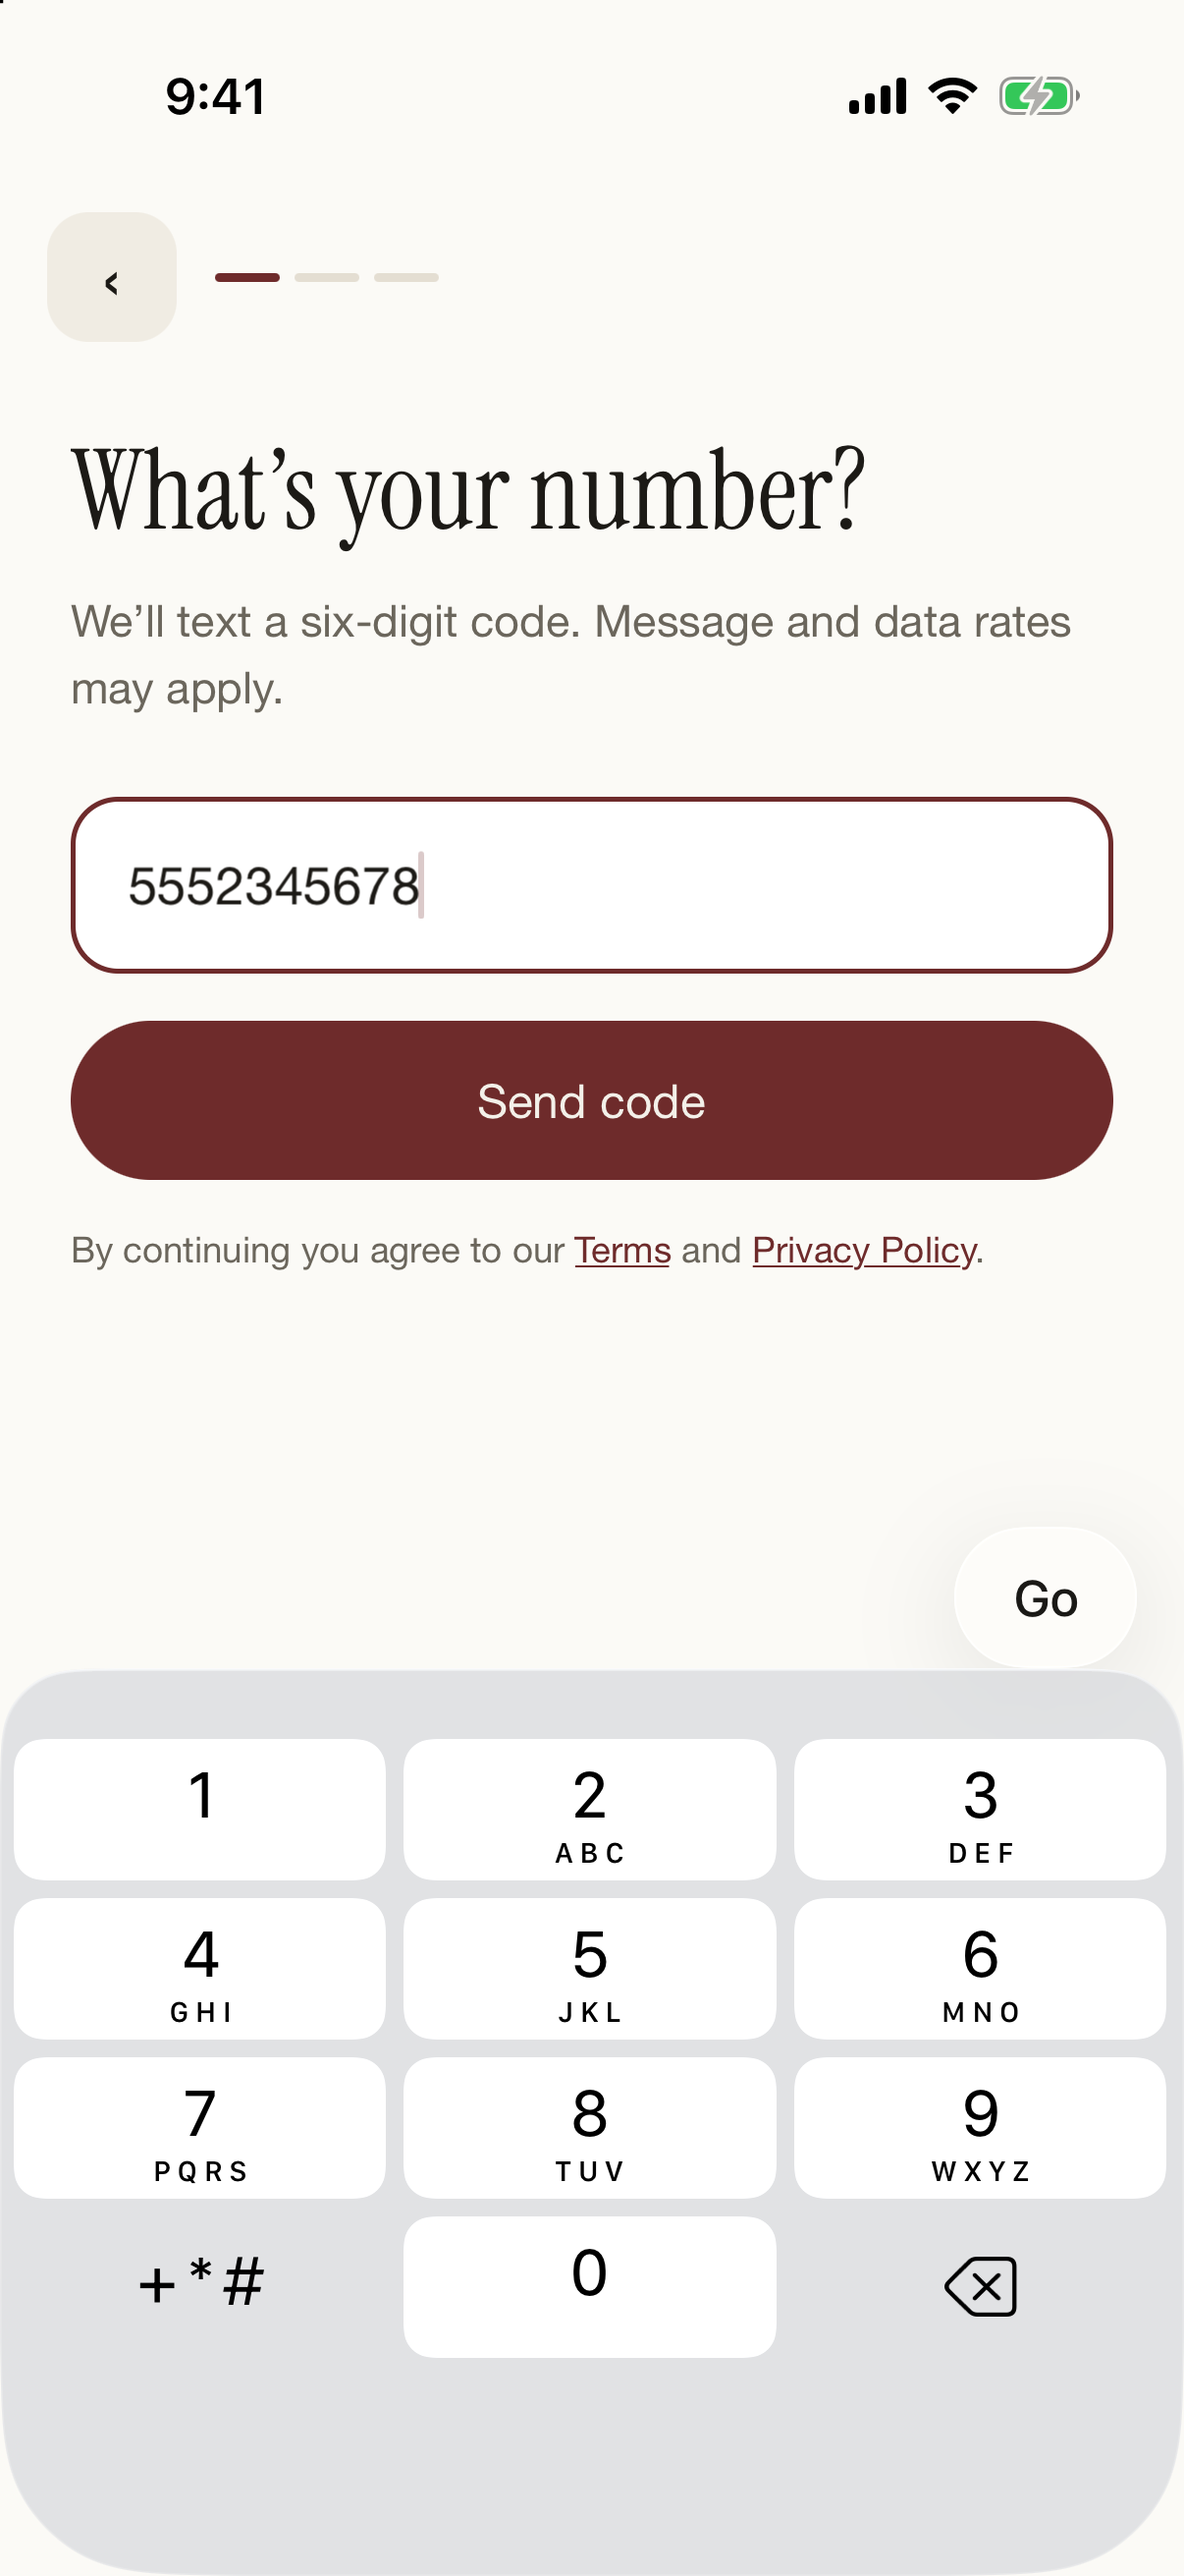
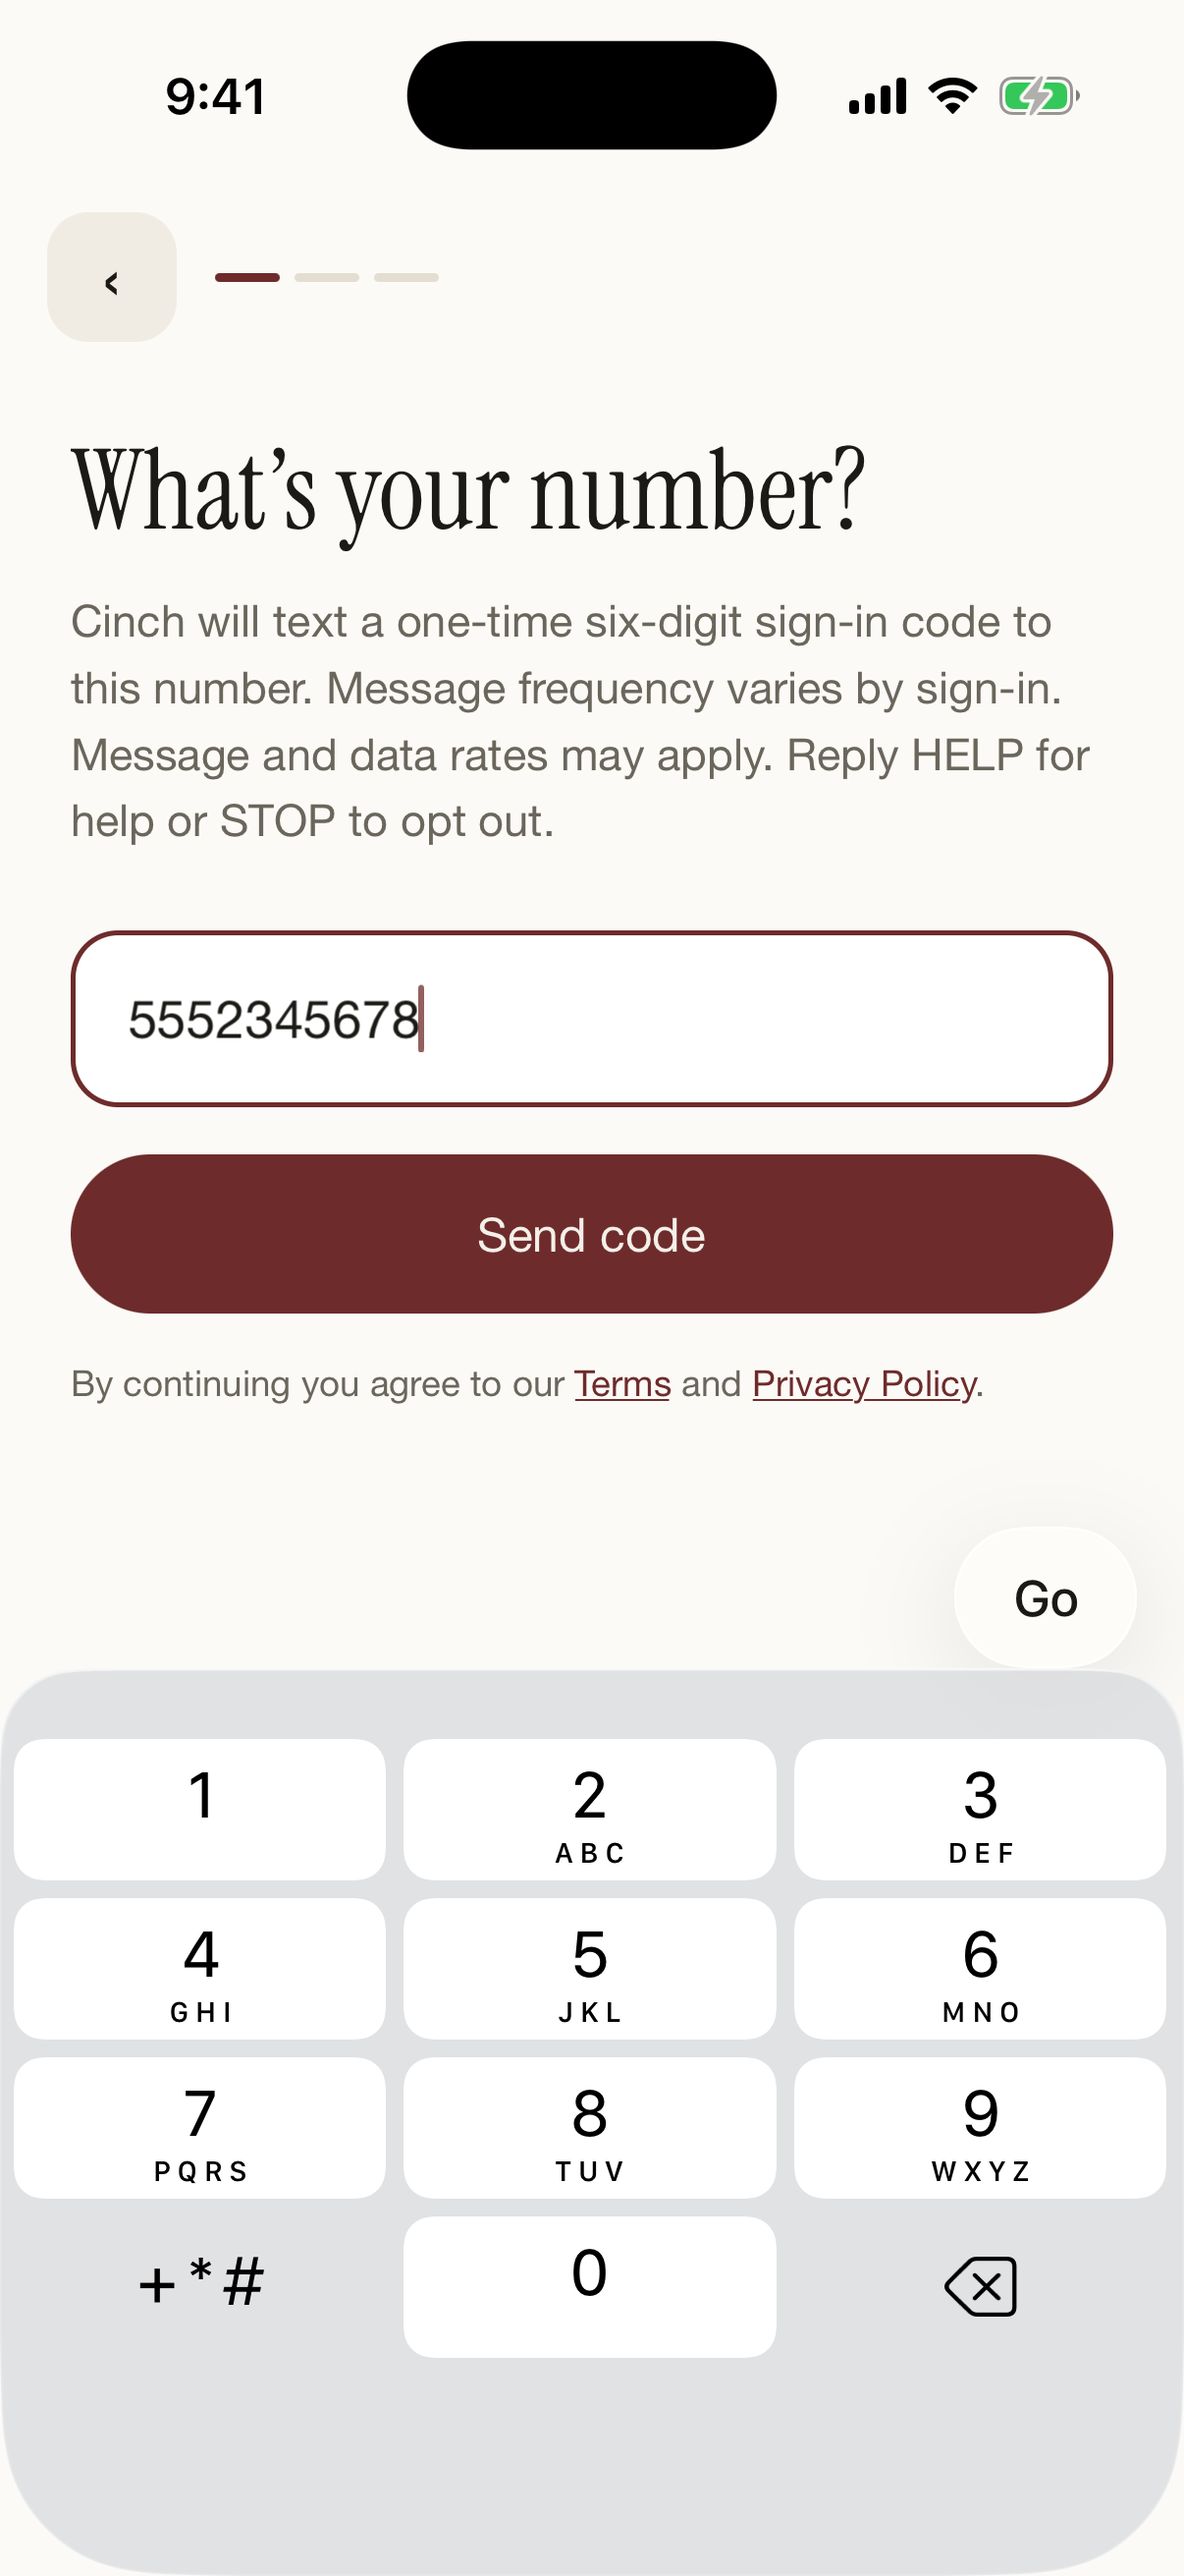
Twilio resubmission · the opt-in screen says whose texts, how often, and how to leave — proof re-shot from the real screen

Changed region(s): [[0.0614, 0.2162, 0.9511, 0.5561], [0.3375, 0.0, 0.675, 0.0618]]

diff --git a/src/features/auth/auth-run-spec.ts b/src/features/auth/auth-run-spec.ts
@@ -240,7 +240,10 @@ export const PHONE_SIGN_IN_ENABLED = false;
 
 export const PHONE_STEP: RunStep = 1;
 export const PHONE_HEADLINE = 'What’s your number?';
-export const PHONE_SUBLINE = 'We’ll text a six-digit code. Message and data rates may apply.';
+// Twilio toll-free verification requires the opt-in screen to carry the full
+// consent disclosure: brand name, message purpose, frequency, rates, HELP/STOP.
+export const PHONE_SUBLINE =
+  'Cinch will text a one-time six-digit sign-in code to this number. Message frequency varies by sign-in. Message and data rates may apply. Reply HELP for help or STOP to opt out.';
 // An example the validator itself would accept — NANP forbids an exchange
 // starting with 0/1, so the film-famous (555) 123-4567 would be refused.
 export const PHONE_PLACEHOLDER = '(555) 234-5678';
